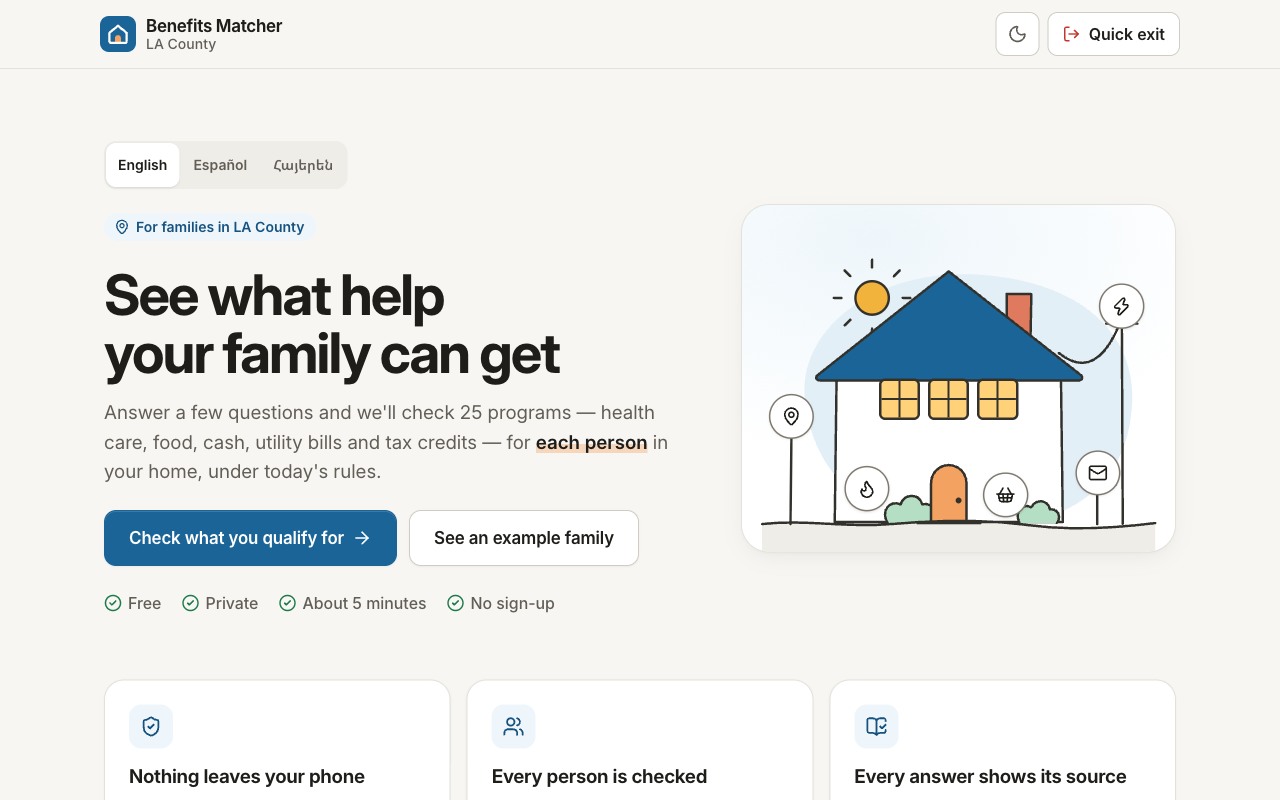
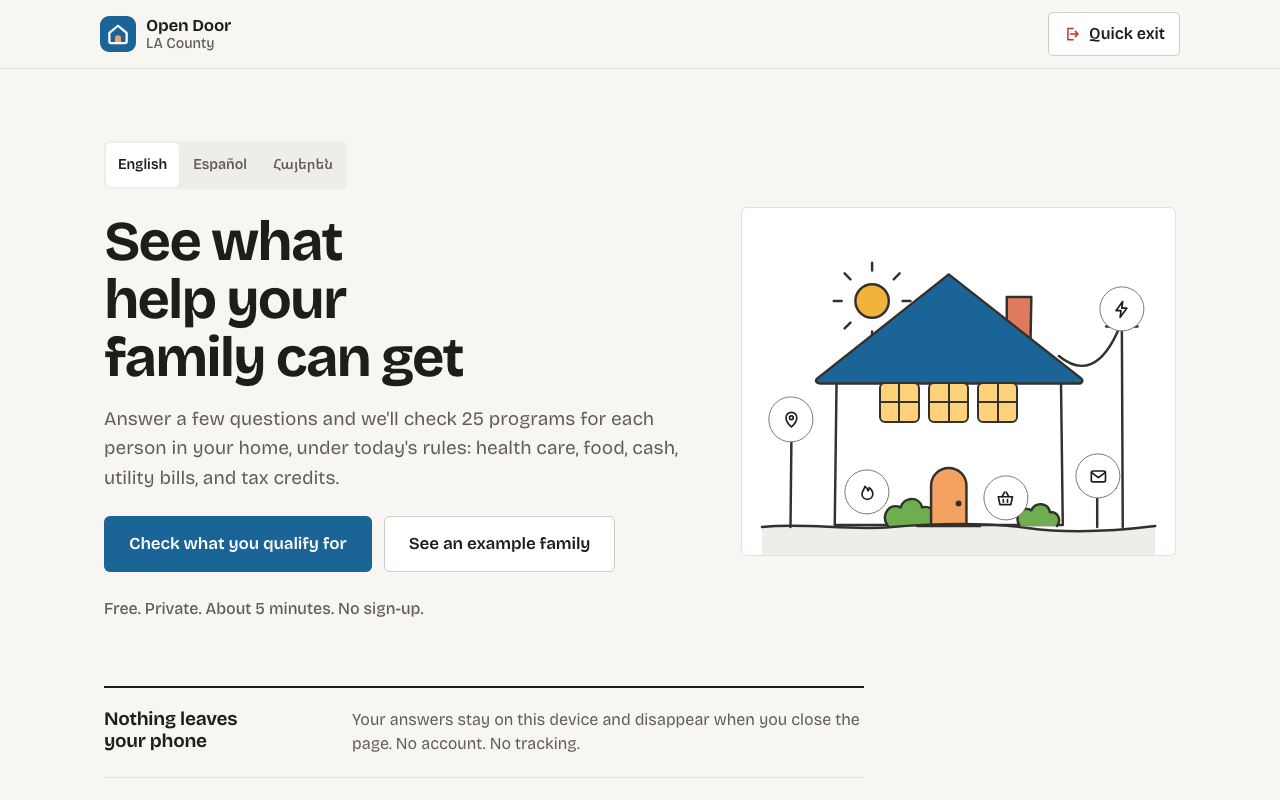
Rename the app to Open Door; add Tejas Deepak to the team
The app is still described as a benefits matcher. The new name is in
ui.appName, the privacy and terms text (en/es/hy), the page title, the
web manifest, README, LICENSE, and CLAUDE.md. Cover image and README
screenshots retaken. The service-worker cache is now open-door-v3, so
installed copies pick up the new name. The video script now names all
three teammates and still runs 2:00.

diff --git a/src/styles.css b/src/styles.css
@@ -1,4 +1,4 @@
-/* Benefits Matcher — design system. Tokens first, then base, layout, components, pages, print.
+/* Open Door — design system. Tokens first, then base, layout, components, pages, print.
    Direction: a calm civic product that looks made, not generated. One typeface (Bricolage Grotesque), warm
    neutral grays, one Pacific blue for actions and selection, green / amber / gray for result states, and apricot
    in the illustration. Flat: no gradients, glows, blur, or drop shadows; hairline borders and tight corners

diff --git a/public/sw.js b/public/sw.js
@@ -2,7 +2,7 @@
 // everything else stale-while-revalidate (built files have hashed names, so they never go stale).
 // It never sees household answers: screening happens in memory, not over the network.
 // ponytail: old hashed files pile up in this cache; bump the name when that matters (activate deletes old caches).
-const CACHE = 'benefits-matcher-v2'
+const CACHE = 'open-door-v3'
 
 self.addEventListener('install', () => self.skipWaiting())
 

diff --git a/index.html b/index.html
@@ -9,7 +9,7 @@
     <link rel="icon" href="./icon.svg" type="image/svg+xml" />
     <link rel="apple-touch-icon" href="./icon-192.png" />
     <link rel="manifest" href="./manifest.webmanifest" />
-    <title>Benefits Matcher · LA County</title>
+    <title>Open Door · LA County</title>
   </head>
   <body>
     <div id="root"></div>

diff --git a/docs/VIDEO_SCRIPT.md b/docs/VIDEO_SCRIPT.md
@@ -2,7 +2,7 @@
 
 **Length:** the official 2026 rules say the video "should be 1-3 minutes long", and judges may penalize videos that go over ([rules PDF](https://www.congressionalappchallenge.us/wp-content/uploads/2026/05/2026-CAC-Rules.pdf)). This script runs **2:00**, with one narrator.
 
-**The video must include:** the name of every team member (so say Aiden's name too, even though only you record), the app name, its purpose in one sentence, who it's for, the tools and languages, and a demo. Sections 1–2 cover the required parts. Upload to YouTube as **Public** (Unlisted doesn't count).
+**The video must include:** the name of every team member (so say Aiden's and Tejas Deepak's names too, even though only you record), the app name, its purpose in one sentence, who it's for, the tools and languages, and a demo. Sections 1–2 cover the required parts. Upload to YouTube as **Public** (Unlisted doesn't count).
 
 Lines marked **SAY** are a starting point. Say them in your own words.
 
@@ -18,19 +18,19 @@ Lines marked **SAY** are a starting point. Say them in your own words.
 
 ---
 
-## 1 · On camera: names, app, purpose (0:00–0:12)
+## 1 · On camera: names, app, purpose (0:00–0:14)
 
 **DO:** You on camera.
 
-**SAY:** "Hi, I'm Arthur. My teammate Aiden and I built Benefits Matcher. It shows LA County families what benefits each person at home may qualify for, under today's rules."
+**SAY:** "Hi, I'm Arthur. With my teammates Aiden and Tejas Deepak, we created Open Door, which is a benefits matcher. It shows LA County families what each person at home may qualify for, under today's rules."
 
-## 2 · Who it's for, tools (0:12–0:24)
+## 2 · Who it's for, tools (0:14–0:25)
 
 **DO:** Chrome on the start page ("See what help your family can get"). Move the mouse slowly over the headline, then over **Check what you qualify for**.
 
 **SAY:** "It's for immigrant and mixed-status families in our district, where kids often qualify even when a parent doesn't. We built it with React and TypeScript."
 
-## 3 · Enter a family (0:24–0:47)
+## 3 · Enter a family (0:25–0:48)
 
 **DO:**
 1. Click **Check what you qualify for**.
@@ -44,10 +44,10 @@ Lines marked **SAY** are a starting point. Say them in your own words.
 
 **SAY:** "You answer by tapping the house. The ZIP code fills in the utility companies. You can skip anything, and a skipped answer never counts as a 'no.' Ana has a green card, and her son Leo was born here. Each person gets their own results."
 
-## 4 · The mixed-status family (0:47–1:10)
+## 4 · The mixed-status family (0:48–1:11)
 
 **DO:**
-1. Click the **Benefits Matcher** logo (top left), then **See an example family**.
+1. Click the **Open Door** logo (top left), then **See an example family**.
 2. In "Your family at a glance", point at **Sofia: 3 likely, 2 possibly**, then click **Sofia**.
 3. At the top of Sofia's card, open the **Immigration status** dropdown and pick **U.S. citizen (including born in the U.S.)**.
 4. Scroll up to "Your family at a glance". Sofia now shows **5 likely, 0 possibly**, with new lines **CalFresh: up to $1,217 a month** and **CalWORKs: up to $1,659 a month**. Point at **Maria**, who still shows **1 likely, 0 possibly**.
@@ -56,7 +56,7 @@ Lines marked **SAY** are a starting point. Say them in your own words.
 
 **SAY:** "Here's a harder case: Maria is undocumented, with four kids whose status we left blank. So two-year-old Sofia gets two 'possibly' results. Make her a U.S. citizen, and CalFresh and CalWORKs become likely, while Maria's results don't change. That's the case most screeners get wrong."
 
-## 5 · Why, and how it works (1:10–1:31)
+## 5 · Why, and how it works (1:11–1:32)
 
 **DO:**
 1. In "Your family at a glance", click **Maria**. Her card shows **Restricted Medi-Cal (emergency and pregnancy care)**.
@@ -64,7 +64,7 @@ Lines marked **SAY** are a starting point. Say them in your own words.
 
 **SAY:** "Tap 'Why?' to see the rule in plain English, every condition we checked, and the official source. Behind this, each rule is data with start and end dates, and a skipped answer counts as 'unknown,' so you get 'possibly,' never a wrong 'no.'"
 
-## 6 · Rules over time (1:31–1:42)
+## 6 · Rules over time (1:32–1:42)
 
 **DO:**
 1. Scroll down past the people cards until you see the closed row **How rule changes reach your family** (just under "Rules as of"). Click it to open.

diff --git a/docs/SUBMISSION.md b/docs/SUBMISSION.md
@@ -12,7 +12,7 @@ Before recording: use the live site (or `npm run build && npm run preview`), set
 
 | Time | On screen | What you say (in your own words) |
 |---|---|---|
-| 0:00–0:20 | Both of you on camera, then the start page | Your names. "Benefits Matcher shows LA County families which benefits *each person* in their home may qualify for, under the rules in effect today. It's for mixed-status and immigrant families in our district. We built it with React and TypeScript, and the rules are JSON data with official sources." |
+| 0:00–0:20 | Both of you on camera, then the start page | Your names. "Open Door, a benefits matcher, shows LA County families which benefits *each person* in their home may qualify for, under the rules in effect today. It's for mixed-status and immigrant families in our district. We built it with React and TypeScript, and the rules are JSON data with official sources." |
 | 0:20–0:40 | One real, specific moment from your community | Why you built it. Keep it short and true. |
 | 0:40–1:20 | Switch to **Español** or **Հայերեն**, tap **See an example family**. The overview shows who gets what. Tap **Sofia** in the list, change her status from "Prefer not to say" to **U.S. citizen** | Each person is screened separately, because that's how California benefits work. Maria gets restricted Medi-Cal; her kids get full Medi-Cal, WIC, and Head Start. When Sofia is a citizen, CalFresh and CalWORKs appear for her and Maria's results don't change. |
 | 1:20–1:50 | Scroll to **How rule changes reach your family**: Jan 1, 2026, Maria's Medi-Cal goes from full to restricted (shown in amber, because it's a loss). Tap **See results on this date** on a planned 2027 change | The app re-runs the family on every day a rule changes, so you can see who a law reaches and when, with the source behind it. |

diff --git a/README.md b/README.md
@@ -2,7 +2,7 @@
 
 <img src="public/icon.svg" width="88" alt="" />
 
-# Benefits Matcher · LA County
+# Open Door · LA County
 
 **A private, multilingual screener that shows LA County families which public benefits *each person* in their household may qualify for, under the rules in effect today.**
 
@@ -149,6 +149,6 @@ This is a screening tool. Only the agency that runs a program can decide eligibi
 
 ## Credits
 
-Built by Arthur and Aiden for the 2026 Congressional App Challenge (CA-30). AI assistance is disclosed in [docs/SUBMISSION.md](docs/SUBMISSION.md#ai-disclosure). Icons are drawn for this project. Fonts: [Bricolage Grotesque](https://fonts.google.com/specimen/Bricolage+Grotesque) and Noto Sans Armenian (both SIL OFL), bundled through Fontsource.
+Built by Arthur, Aiden, and Tejas Deepak for the 2026 Congressional App Challenge (CA-30). AI assistance is disclosed in [docs/SUBMISSION.md](docs/SUBMISSION.md#ai-disclosure). Icons are drawn for this project. Fonts: [Bricolage Grotesque](https://fonts.google.com/specimen/Bricolage+Grotesque) and Noto Sans Armenian (both SIL OFL), bundled through Fontsource.
 
 License: [MIT](LICENSE)

diff --git a/CLAUDE.md b/CLAUDE.md
@@ -1,4 +1,4 @@
-# Benefits Matcher
+# Open Door (a benefits matcher)
 
 Private, client-only benefits screener for LA County (2026 Congressional App Challenge, CA-30). React + Vite + TypeScript, no backend.
 
